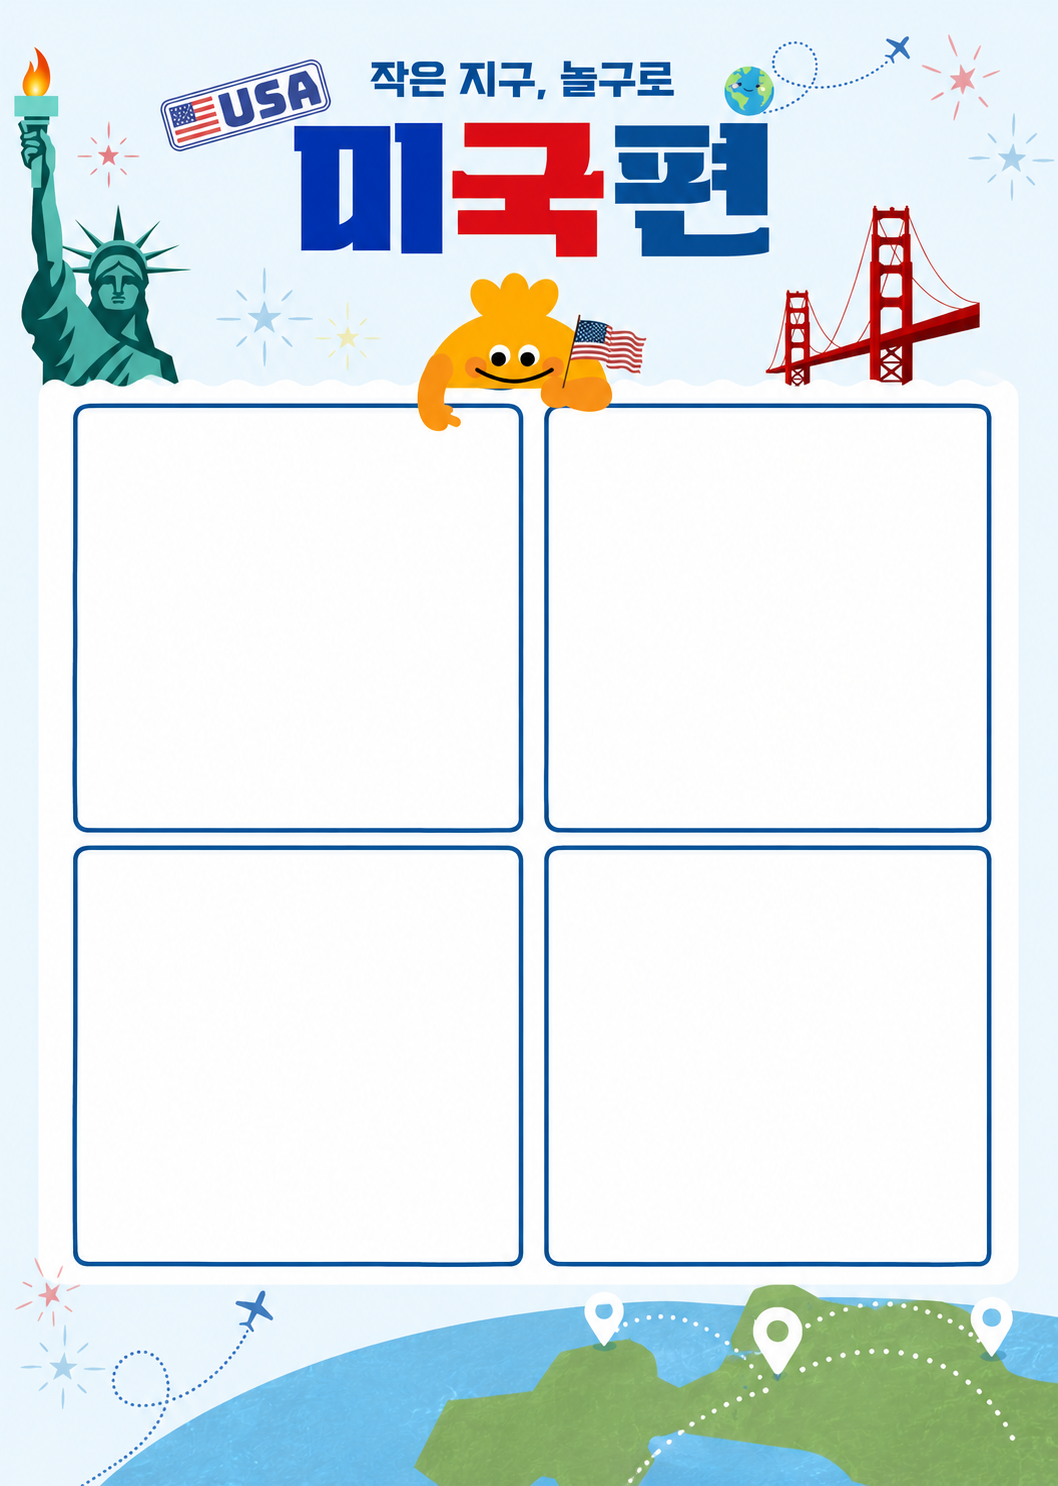
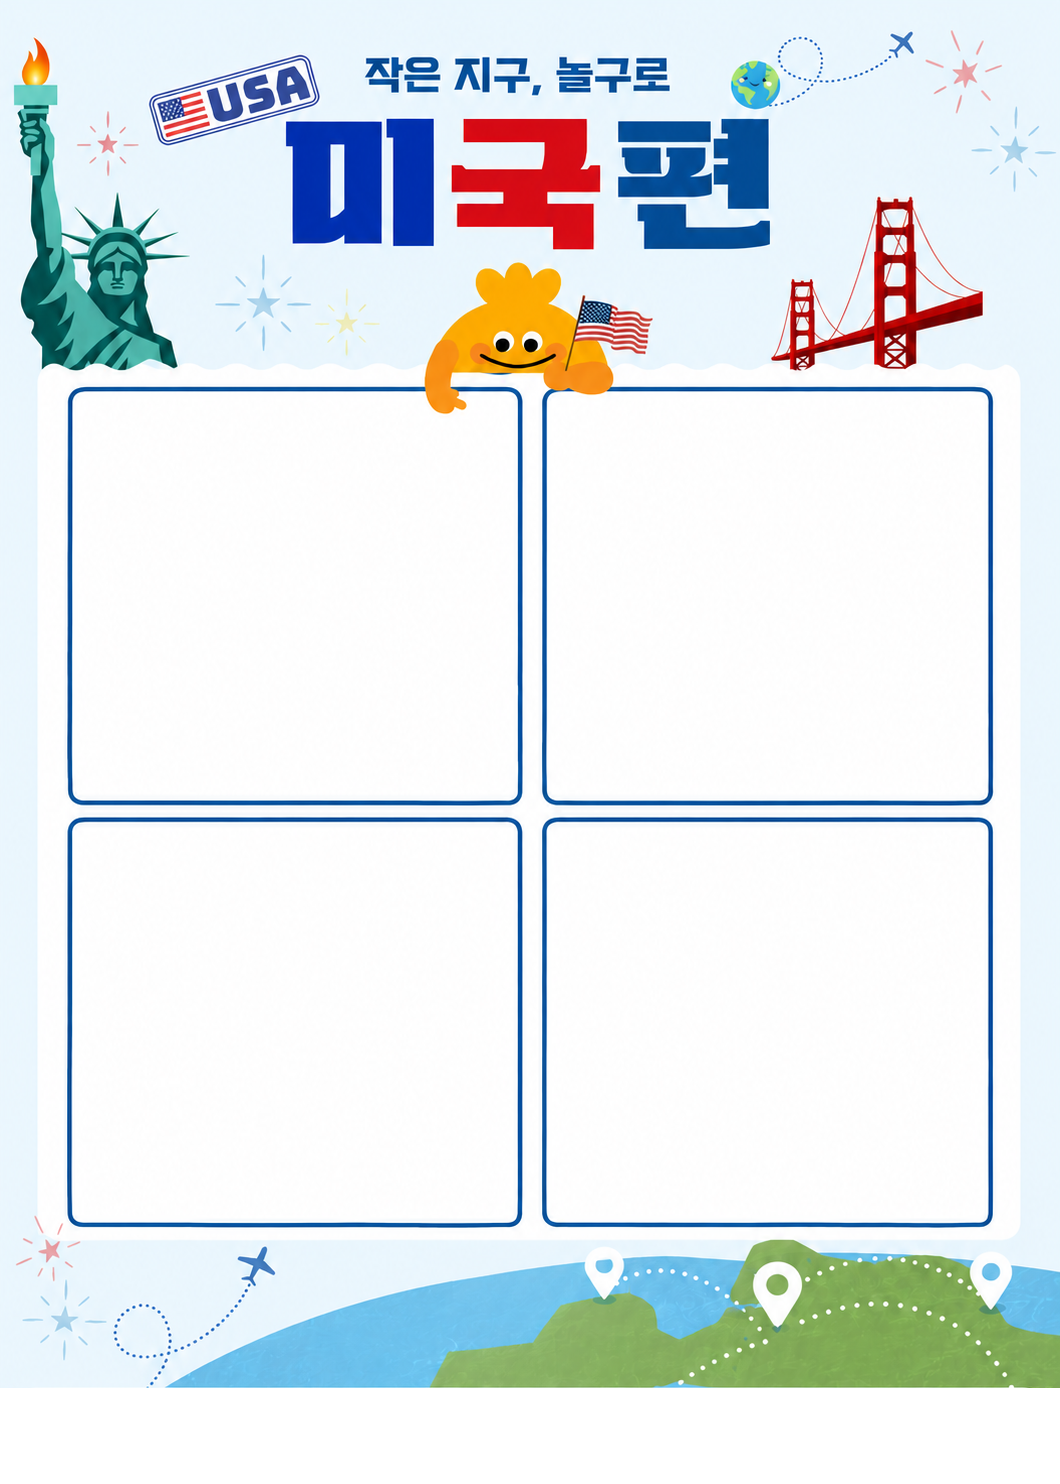
미국편 프레임 하단 로고 제거, 놀구로 로고(좌) + 날짜(우) 추가

Changed region(s): [[0.0, 0.031, 1.0, 1.0], [0.811, 0.0, 0.9357, 0.062], [0.9357, 0.093, 0.9981, 0.124]]

diff --git a/src/App.jsx b/src/App.jsx
@@ -89,7 +89,7 @@ const EVENT_FRAMES = [
     bg:          "#d6eaf8",
     accent:      "#ffffff",
     text:        "#1a3a6b",
-    dateY:       1720,
+    logoBottom:  true,
     photosOnTop: true,
     slots: [
       { x:  89, y:  495, width: 498, height: 505 },
@@ -330,12 +330,28 @@ async function composeFinalImage(photoList, frame, captionText = "") {
   // 날짜 텍스트
   const today    = new Date();
   const dateText = `${today.getFullYear()}.${String(today.getMonth() + 1).padStart(2, "0")}.${String(today.getDate()).padStart(2, "0")}`;
-  const dateY    = frame.dateY || 1668;
 
-  ctx.fillStyle = frame.text || "#ffffff";
-  ctx.font      = "bold 34px sans-serif";
-  ctx.textAlign = "center";
-  ctx.fillText(dateText, CANVAS_W / 2, dateY);
+  if (isEventFrame && frame.logoBottom) {
+    // 이벤트 프레임 하단: 놀구로 로고(좌) + 날짜(우)
+    try {
+      const logo = await loadImage("/logos/noguro-logo.jpg");
+      const logoH = 70;
+      const logoW = Math.round(logo.width * (logoH / logo.height));
+      const bottomY = CANVAS_H - 90;
+      ctx.drawImage(logo, 40, bottomY, logoW, logoH);
+    } catch {}
+
+    ctx.fillStyle = frame.text || "#333333";
+    ctx.font      = "bold 32px sans-serif";
+    ctx.textAlign = "right";
+    ctx.fillText(dateText, CANVAS_W - 40, CANVAS_H - 52);
+  } else {
+    const dateY = frame.dateY || 1668;
+    ctx.fillStyle = frame.text || "#ffffff";
+    ctx.font      = "bold 34px sans-serif";
+    ctx.textAlign = "center";
+    ctx.fillText(dateText, CANVAS_W / 2, dateY);
+  }
 
   return canvas.toDataURL("image/png");
 }